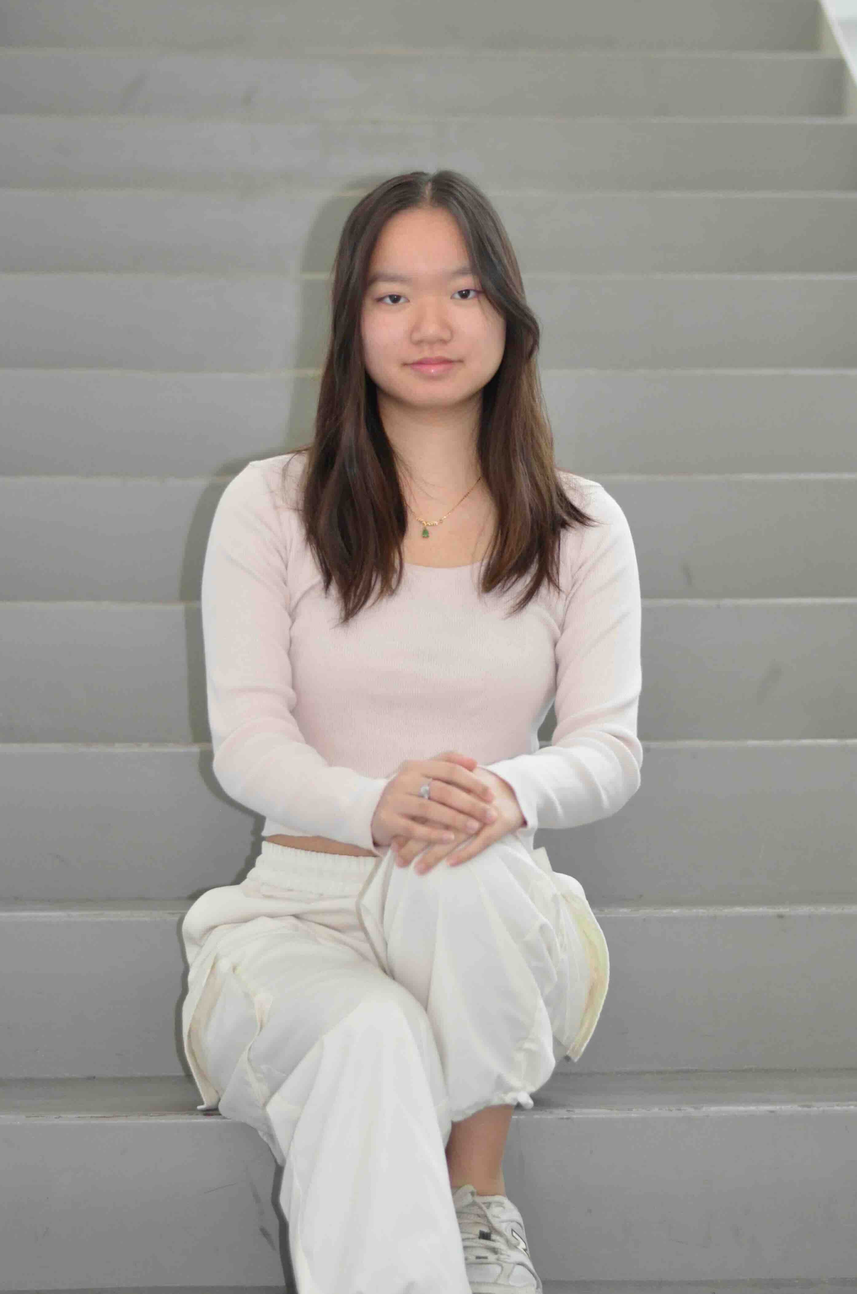
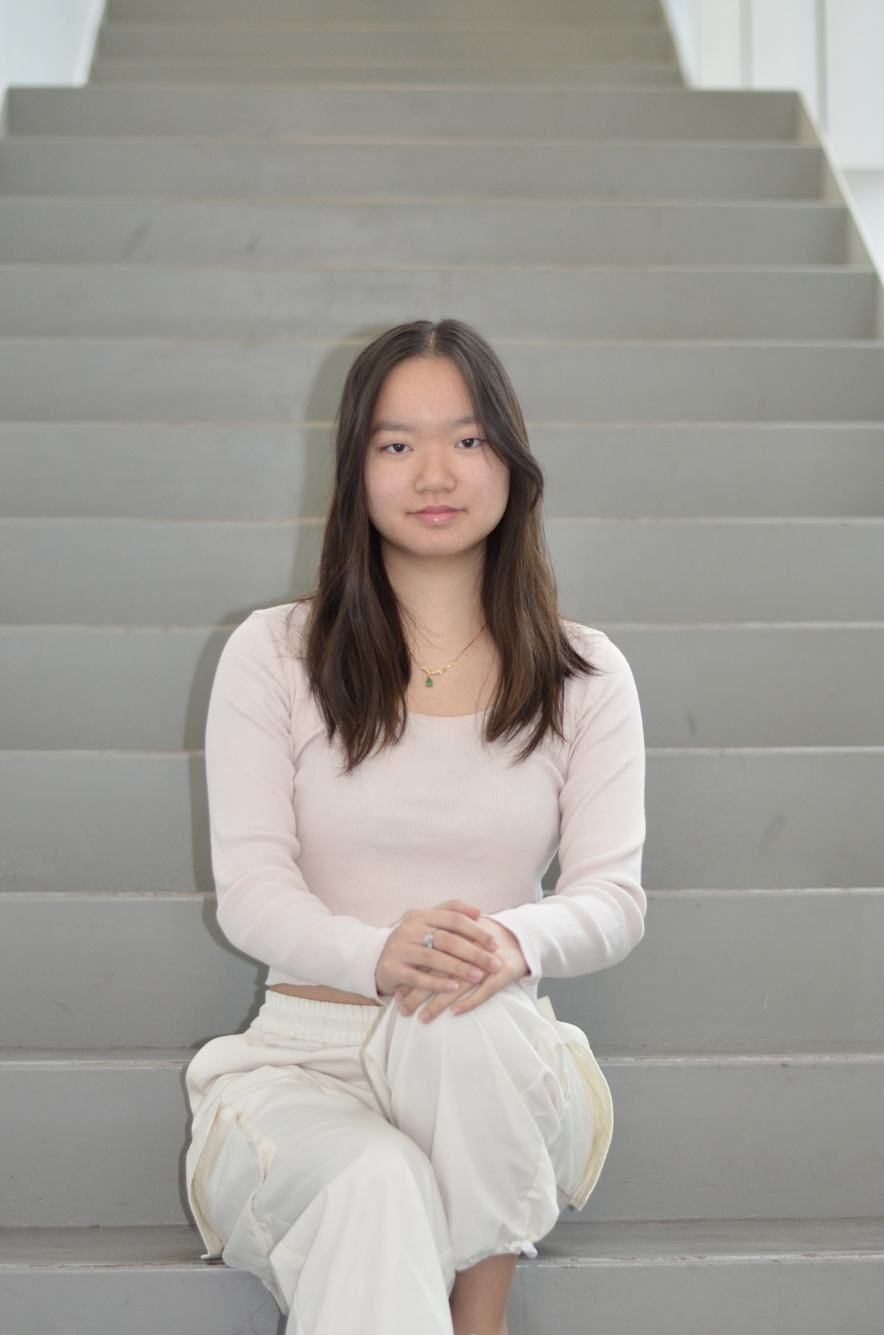
debug test annie img

diff --git a/index.html b/index.html
@@ -513,7 +513,7 @@
           <div class="col-lg-4 col-md-6 d-flex align-items-stretch">
             <div class="member">
               <div class="member-img">
-                <img src="assets/img/board/Annie.jpg" class="img-fluid" alt="">
+                <img src="assets/img/board/Elise.jpg" class="img-fluid" alt="">
                 <div class="social container">
                   <!-- <p class="bio">My name is Elaine Zhu and I am a junior in Columbia College majoring in Neuroscience and 
                     Behavior and will be Columbia China Dance’s secretary this year! I’m originally from Overland Park, Kansas 
